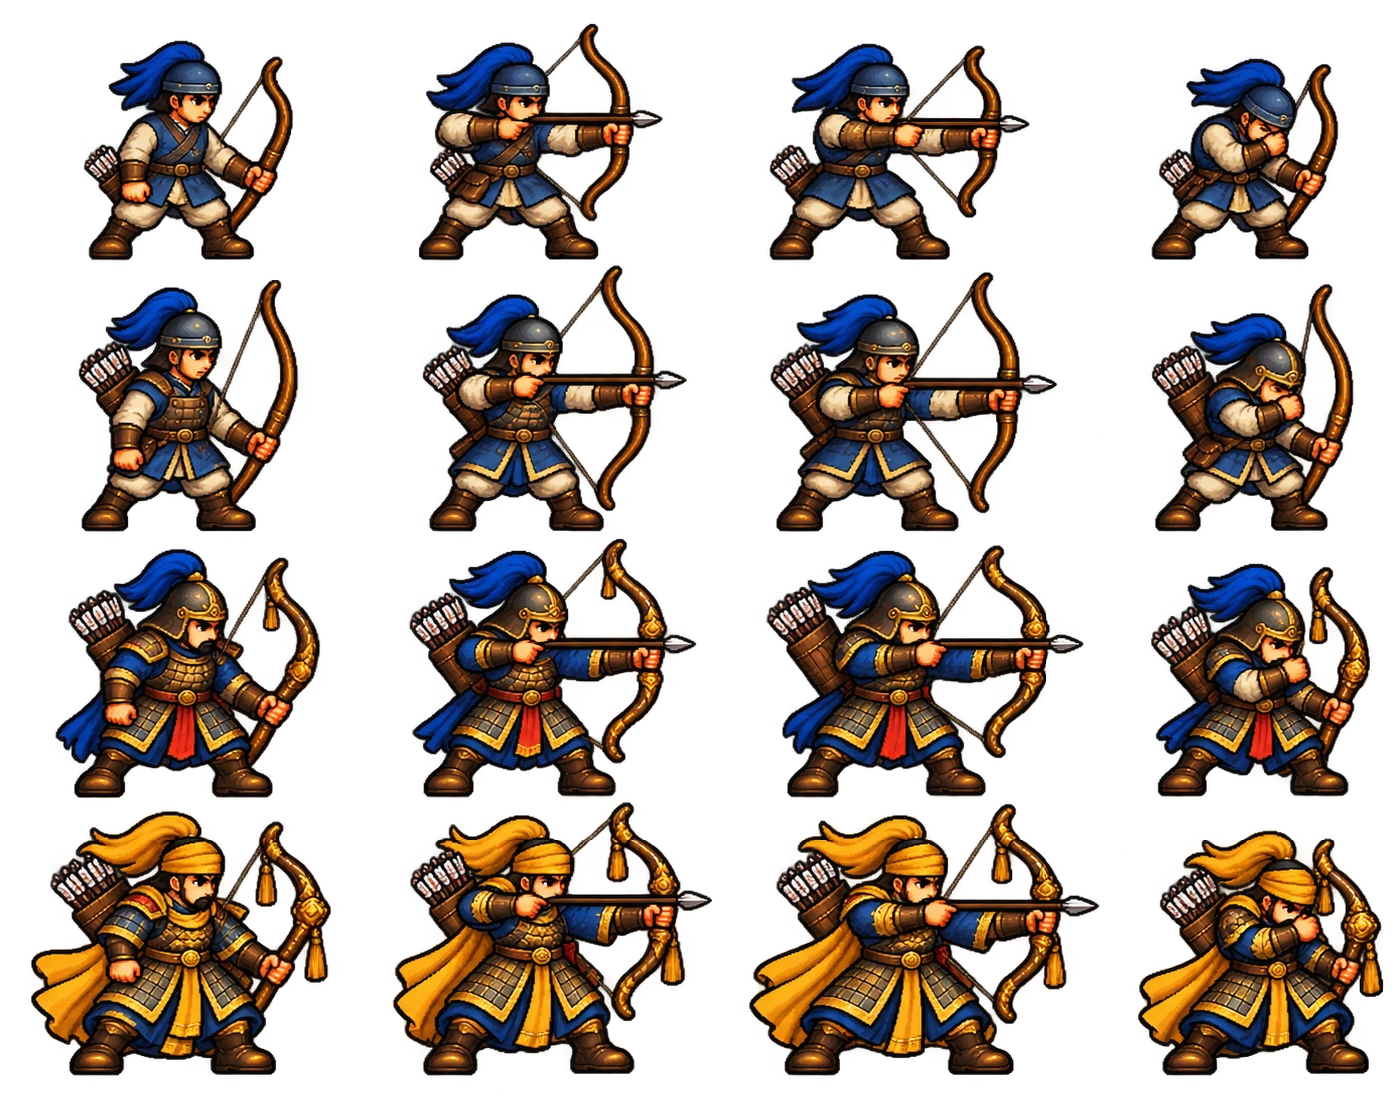
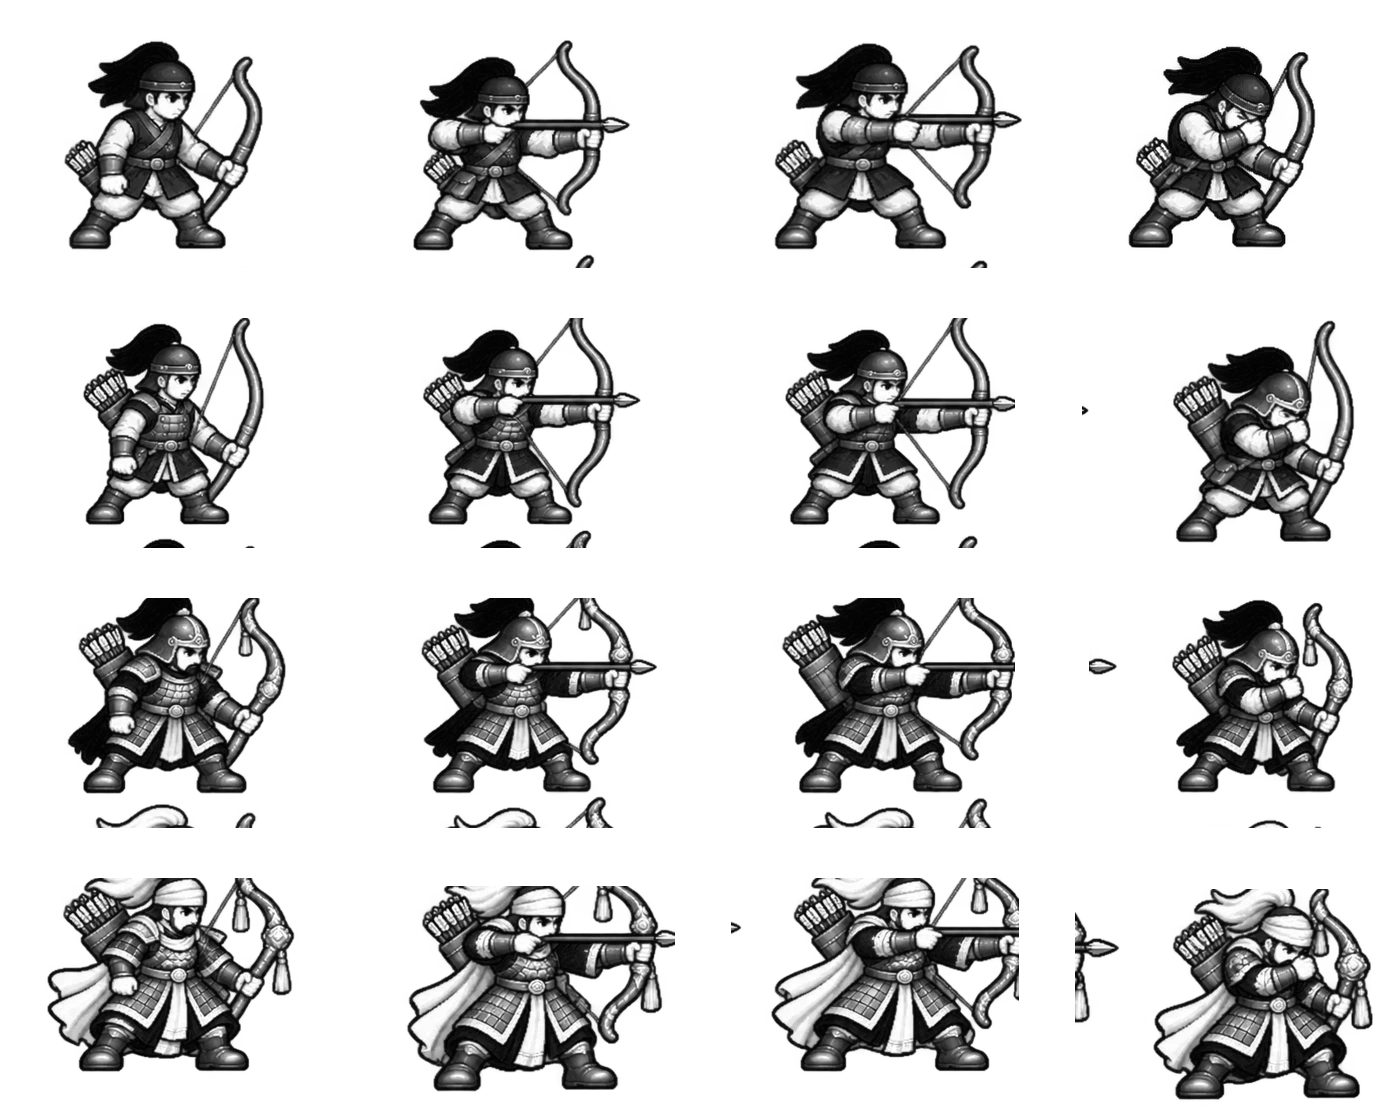
art: align remaining troop SD sheets

diff --git a/packages/web/src/complete-troops.ts b/packages/web/src/complete-troops.ts
@@ -101,6 +101,8 @@ const V2_SHEETS=new Set([
 ]);
 // 화풍 재통일: 보병·등갑병의 픽셀 비율과 명암으로 교정한 v3를 쓴다.
 const SHEET_FILES:Readonly<Record<string,string>>={
+  'four-stage-cavalry':'troops-four-stage-cavalry-v2.webp',
+  'four-stage-infantry':'troops-four-stage-infantry-v2.webp',
   'four-stage-dancer':'troops-four-stage-dancer-v2.webp',
   'four-stage-taoist':'troops-four-stage-taoist-v2.webp',
   'four-stage-mounted-strategist':'troops-four-stage-mounted-strategist-v3.webp',
